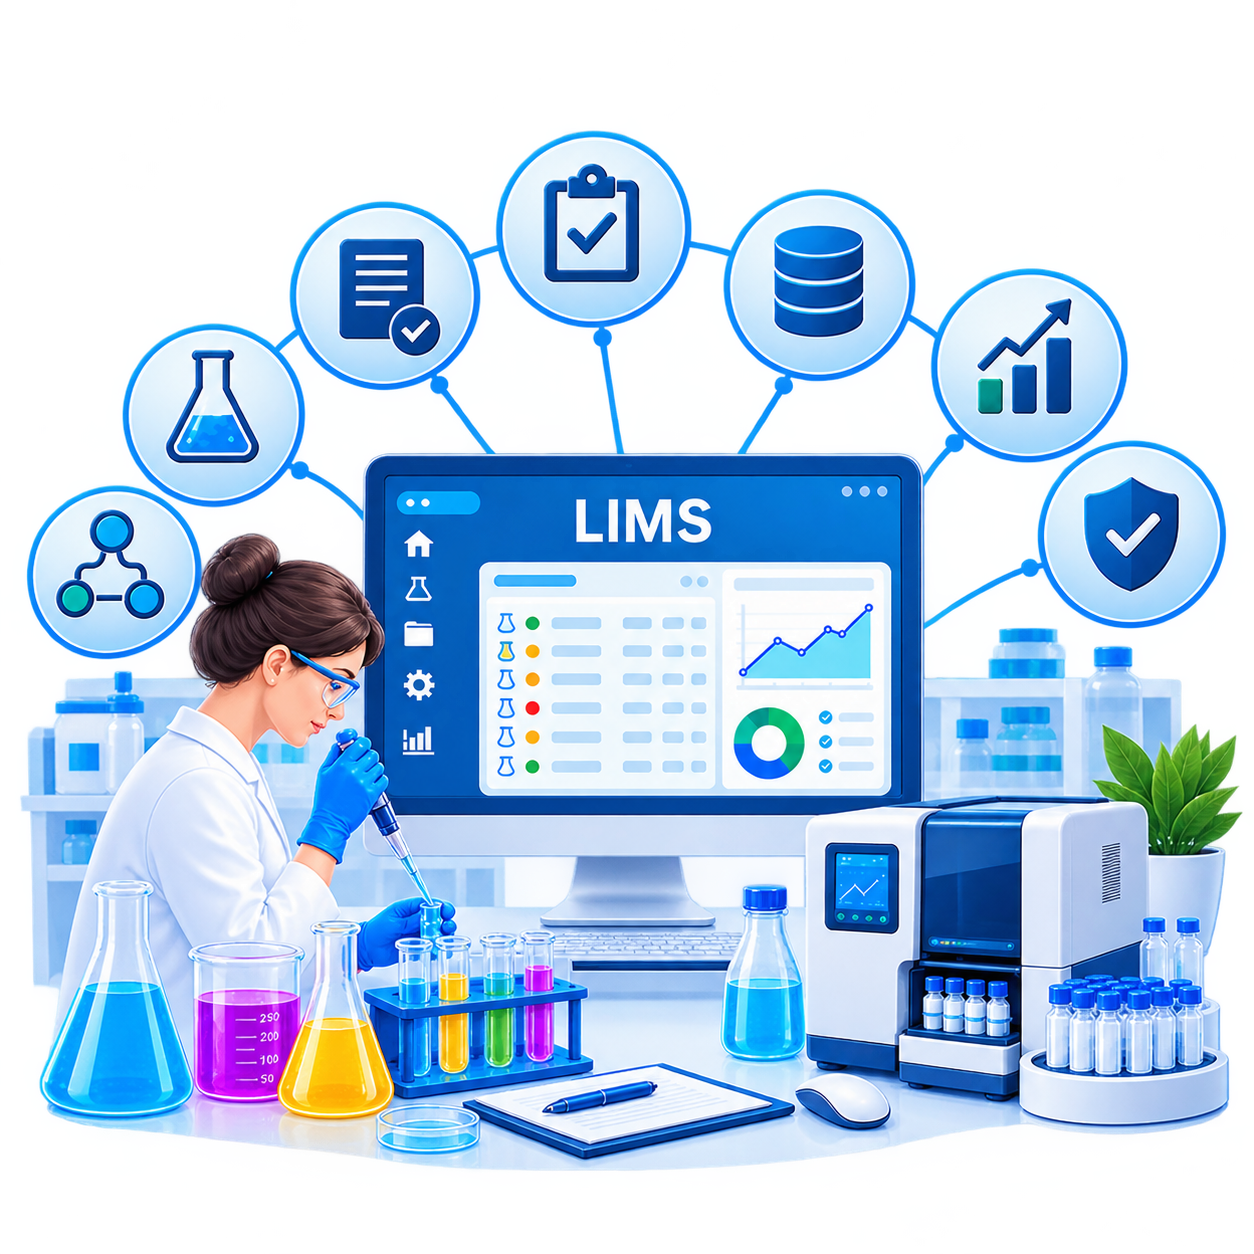
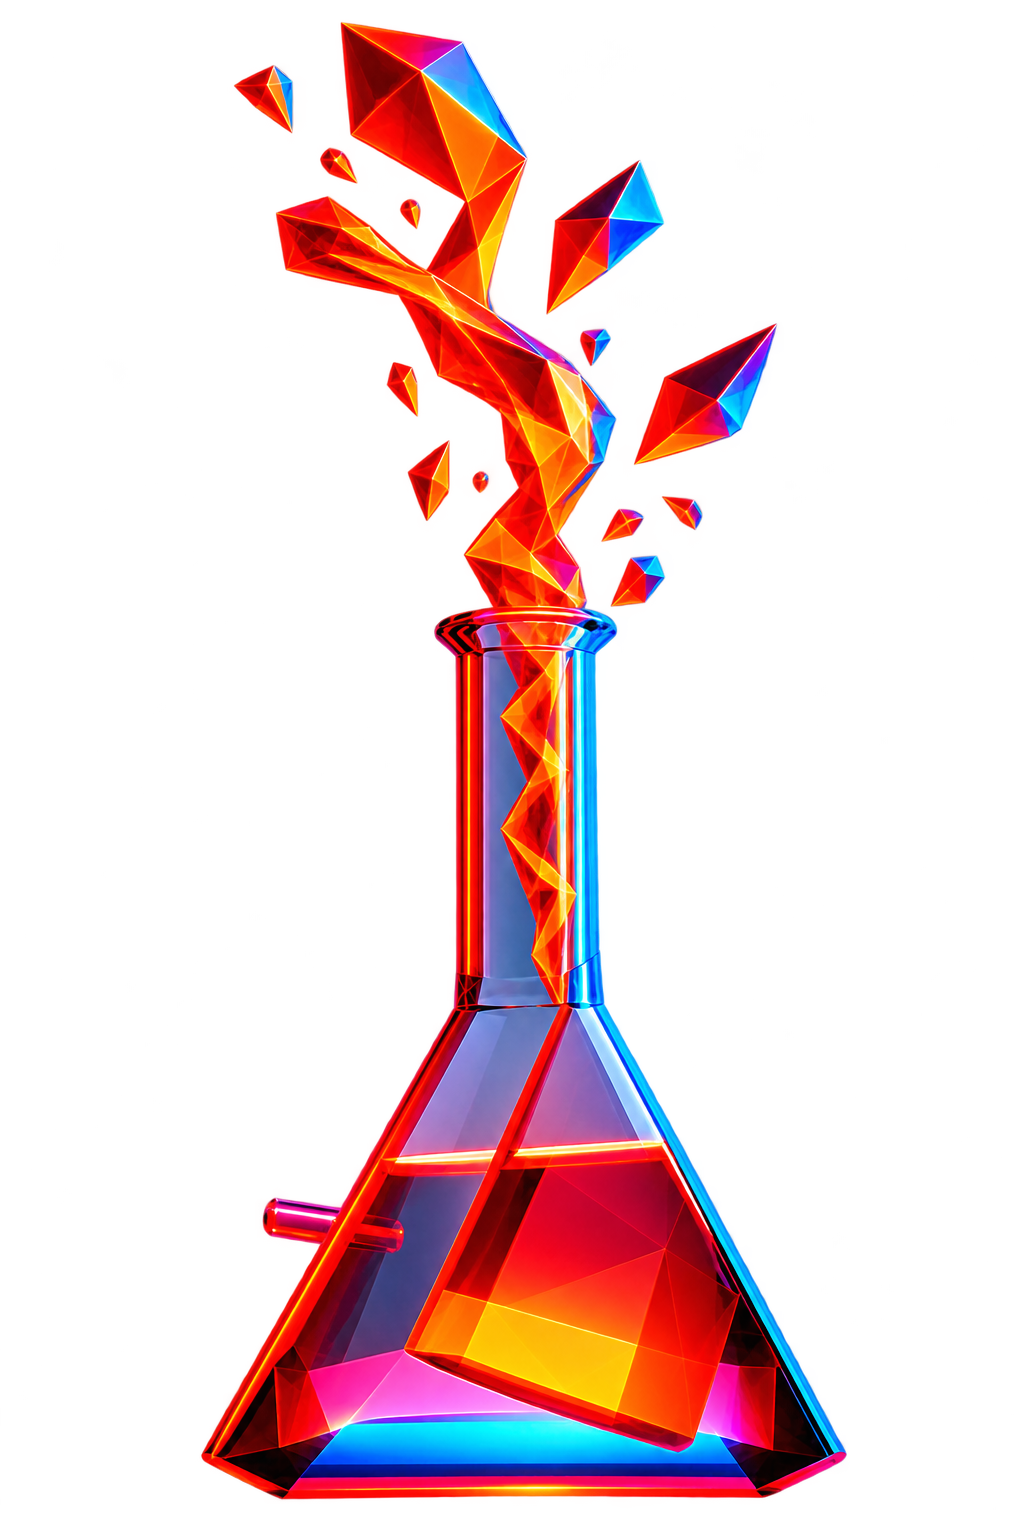
[T-23] feat: add gost 2477 water content uncertainty

diff --git a/src/features/pour-point/lib/Gost_20287_тек.ts b/src/features/pour-point/lib/Gost_20287_тек.ts
@@ -1,0 +1,193 @@
+/**
+ * Оценивание неопределённости определения температуры текучести (T), °C
+ * по ГОСТ 20287 (Метод А), на основе данных электронной таблицы
+ * "МОН-06-2026 Температуры текучести ГОСТ 20287-2023.xlsx".
+ *
+ * Таблица 1 — Исходные данные:
+ *   H5 — Погрешность измерения температуры пробы, °C = 0,1
+ *   H6 — Погрешность поддержания температуры бани, °C = 0,5
+ *   H7 — Повторяемость, °C = 6
+ *
+ * Таблица 2 — Результаты измерений:
+ *   B11 — Температура текучести, °C - значение Среднее значение tср, °C из Температура текучести,°С по ГОСТ 20287 (Метод А)
+ * 
+ *
+ * Таблица 3 — Бюджет суммарной стандартной неопределённости:
+ *   E15 — стандартная неопределённость поправки на погрешность измерения 
+ *         температуры пробы, °C
+ *   E16 — стандартная неопределённость поправки на погрешность поддержания 
+ *         температуры бани, °C
+ *   E17 — стандартная неопределённость повторяемости, °C
+ *   E18 — стандартная неопределённость отбора проб, °C
+ *   E19 — суммарная стандартная неопределённость, °C
+ *
+ *   F15 — процентный вклад погрешности измерения температуры пробы
+ *   F16 — процентный вклад погрешности поддержания температуры бани
+ *   F17 — процентный вклад повторяемости
+ *   F18 — процентный вклад отбора проб
+ *   F19 — сумма вкладов
+ *
+ *   D19 — расширенная неопределённость (k = 2), °C
+ */
+
+// ============================================================
+// Таблица 1 — Исходные данные
+// ============================================================
+
+/**
+ * H5 — Погрешность измерения температуры пробы, °C.
+ */
+const H5_sampleTempAccuracy = 0.1;
+
+/**
+ * H6 — Погрешность поддержания температуры бани, °C.
+ */
+const H6_bathTempAccuracy = 0.5;
+
+/**
+ * H7 — Повторяемость, °C.
+ */
+const H7_repeatability = 6;
+
+// ============================================================
+// Таблица 2 — Результаты измерений
+// ============================================================
+
+/**
+ * B11 — Температура текучести, °C.
+ */
+const B11_measuredPourPoint = 0; // Пример: 0 °C
+
+// ============================================================
+// Таблица 3 — Бюджет суммарной стандартной неопределённости
+// ============================================================
+
+// ------------------------------------------------------------
+// Стандартные неопределённости
+// ------------------------------------------------------------
+
+/**
+ * E15 — стандартная неопределённость поправки на погрешность 
+ * измерения температуры пробы, °C.
+ * Формула: E15 = H5 / √3
+ */
+const E15_uSampleTempAccuracy = H5_sampleTempAccuracy / Math.sqrt(3);
+
+/**
+ * E16 — стандартная неопределённость поправки на погрешность 
+ * поддержания температуры бани, °C.
+ * Формула: E16 = H6 / √3
+ */
+const E16_uBathTempAccuracy = H6_bathTempAccuracy / Math.sqrt(3);
+
+/**
+ * E17 — стандартная неопределённость повторяемости, °C.
+ * Формула: E17 = H7 / (2,8 * √2)
+ */
+const E17_uRepeatability = H7_repeatability / (2.8 * Math.sqrt(2));
+
+/**
+ * E18 — стандартная неопределённость отбора проб, °C.
+ */
+const E18_uSampling = 0.353553390593274;
+
+// ------------------------------------------------------------
+// Суммарная стандартная неопределённость
+// ------------------------------------------------------------
+
+/**
+ * E19 — суммарная стандартная неопределённость, °C.
+ *
+ * Формула из таблицы:
+ *   E19 = √( E15² + E16² + E17² + E18² )
+ */
+const E19_uCombined = Math.sqrt(
+  E15_uSampleTempAccuracy ** 2 +
+  E16_uBathTempAccuracy ** 2 +
+  E17_uRepeatability ** 2 +
+  E18_uSampling ** 2
+);
+
+// ------------------------------------------------------------
+// Процентные вклады
+// ------------------------------------------------------------
+
+/**
+ * Знаменатель для процентных вкладов.
+ * Формула: denom = E15² + E16² + E17² + E18²
+ */
+const contributionDenominator =
+  E15_uSampleTempAccuracy ** 2 +
+  E16_uBathTempAccuracy ** 2 +
+  E17_uRepeatability ** 2 +
+  E18_uSampling ** 2;
+
+/**
+ * F15 — процентный вклад погрешности измерения температуры пробы.
+ * Формула: F15 = (E15² / (E15²+E16²+E17²+E18²)) · 100
+ */
+const F15_contributionSampleTemp =
+  (E15_uSampleTempAccuracy ** 2 / contributionDenominator) * 100;
+
+/**
+ * F16 — процентный вклад погрешности поддержания температуры бани.
+ * Формула: F16 = (E16² / (E15²+E16²+E17²+E18²)) · 100
+ */
+const F16_contributionBathTemp =
+  (E16_uBathTempAccuracy ** 2 / contributionDenominator) * 100;
+
+/**
+ * F17 — процентный вклад повторяемости.
+ * Формула: F17 = (E17² / (E15²+E16²+E17²+E18²)) · 100
+ */
+const F17_contributionRepeatability =
+  (E17_uRepeatability ** 2 / contributionDenominator) * 100;
+
+/**
+ * F18 — процентный вклад отбора проб.
+ * Формула: F18 = (E18² / (E15²+E16²+E17²+E18²)) · 100
+ */
+const F18_contributionSampling =
+  (E18_uSampling ** 2 / contributionDenominator) * 100;
+
+/**
+ * F19 — сумма процентных вкладов.
+ * Формула: F19 = СУММ(F15:F18)
+ */
+const F19_contributionTotal =
+  F15_contributionSampleTemp +
+  F16_contributionBathTemp +
+  F17_contributionRepeatability +
+  F18_contributionSampling;
+
+// ------------------------------------------------------------
+// Расширенная неопределённость
+// ------------------------------------------------------------
+
+/**
+ * D19 — расширенная неопределённость при k = 2, °C.
+ */
+const D19_expandedUncertainty = 
+  Math.round(Math.sqrt(contributionDenominator) * 2 * 1000) / 1000;
+
+// ============================================================
+// Экспорт
+// ============================================================
+
+export {
+  H5_sampleTempAccuracy,
+  H6_bathTempAccuracy,
+  H7_repeatability,
+  B11_measuredPourPoint,
+  E15_uSampleTempAccuracy,
+  E16_uBathTempAccuracy,
+  E17_uRepeatability,
+  E18_uSampling,
+  E19_uCombined,
+  F15_contributionSampleTemp,
+  F16_contributionBathTemp,
+  F17_contributionRepeatability,
+  F18_contributionSampling,
+  F19_contributionTotal,
+  D19_expandedUncertainty,
+};
